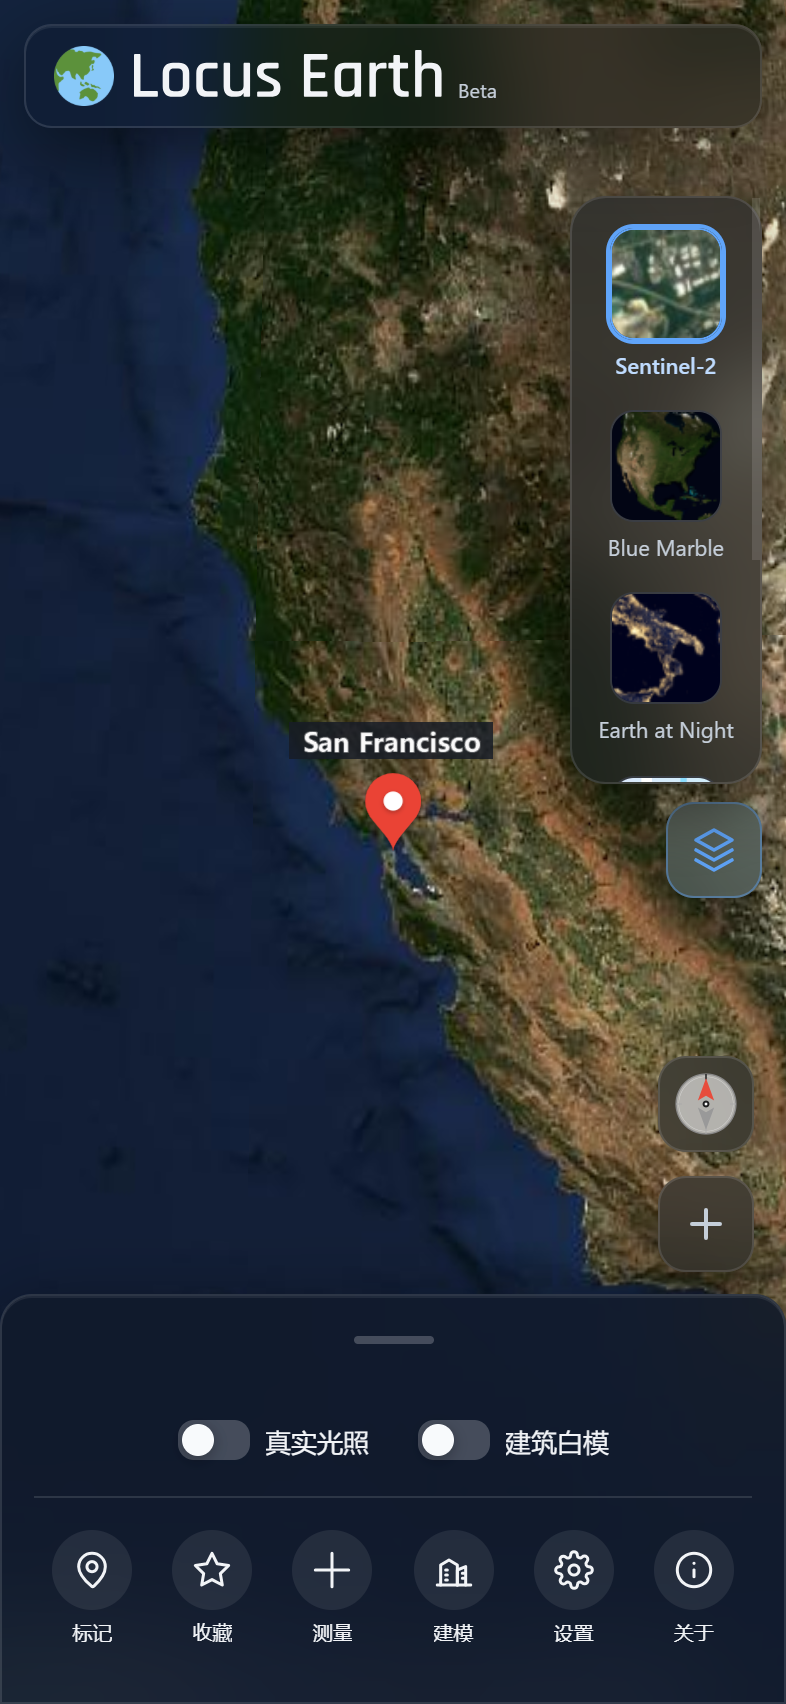
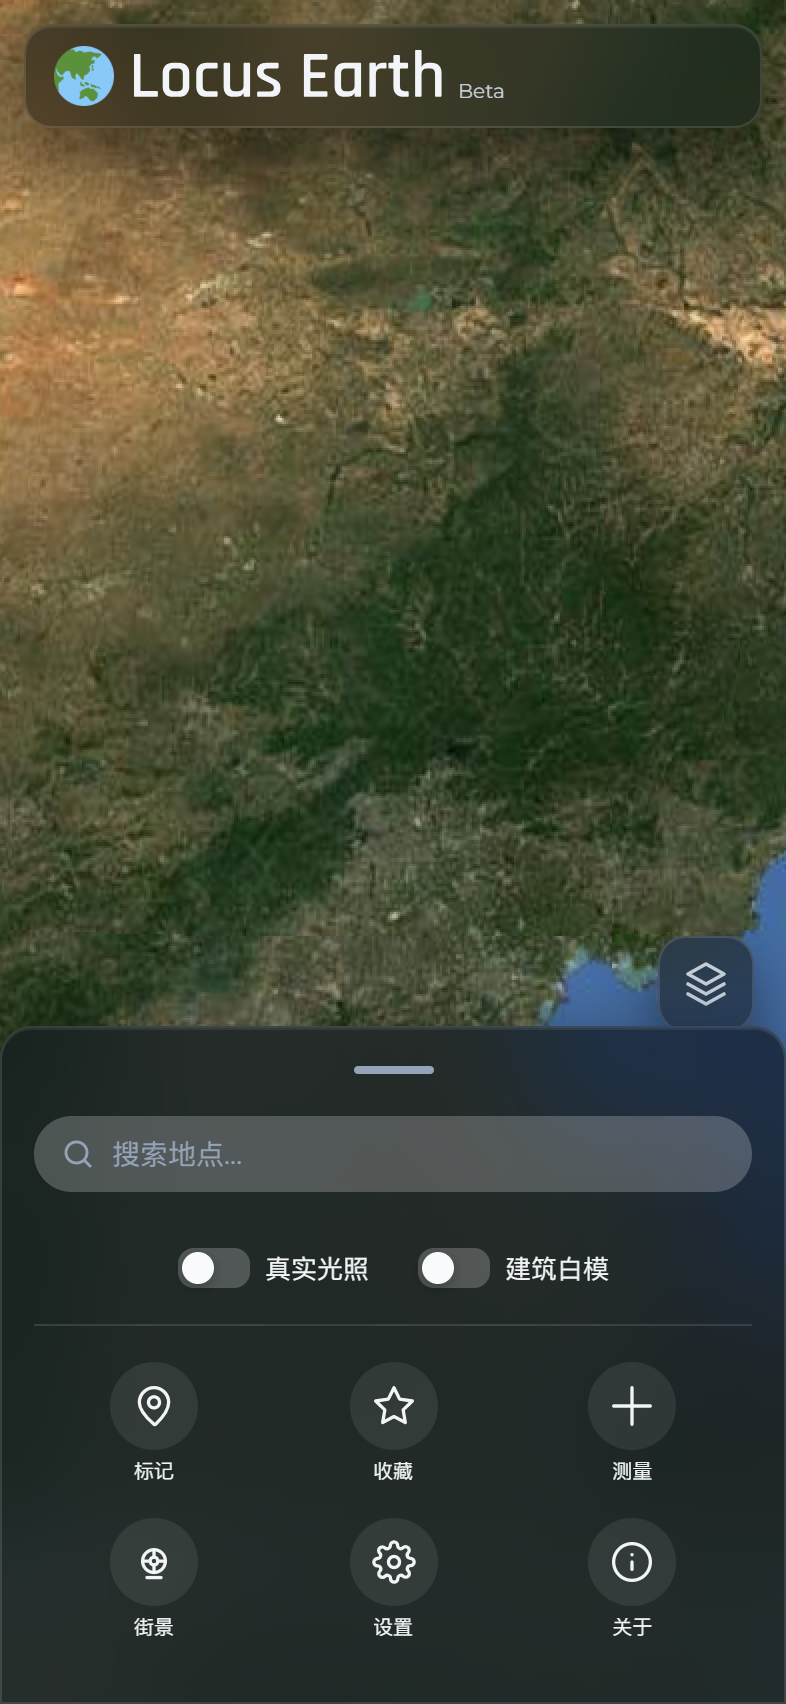
update

diff --git a/js/settings.js b/js/settings.js
@@ -40,11 +40,45 @@
     // =============================================
     function applyTheme(theme) {
         document.documentElement.setAttribute('data-theme', theme);
+        // 与 js/main.js 的 applyTheme 保持一致：让原生控件（<select> 弹层、滚动条）
+        // 跟着换色，否则深色主题下会冒出一块系统亮色。
+        document.documentElement.style.colorScheme = theme === 'dark' ? 'dark' : 'light';
         const metaTheme = document.querySelector('meta[name="theme-color"]');
         if (metaTheme) {
             const colors = { light: '#ffffff', dark: '#1a1a1a' };
             metaTheme.content = colors[theme] || '#ffffff';
         }
+    }
+
+    // data-theme 一改，整页都要重算样式再重绘。设置页的底是一层
+    // `background-attachment: fixed` 的渐变（见 css/settings.css），外加若干
+    // backdrop-filter 玻璃面板，手机上这一帧的「呈现延迟」能到 90ms 以上 ——
+    // 这正是 Cloudflare 报的 #colorMode INP 264ms 的来源，而真正的事件处理只有 6ms。
+    // 所以交互路径上不再直接 applyTheme：先把「便宜」的反馈画出去（菜单收起、
+    // 触发按钮文字更新），整页重绘推到下一次绘制之后。差一帧，用户看不出来。
+    let pendingTheme = null;
+    let themeApplyScheduled = false;
+
+    function applyThemeDeferred(theme) {
+        pendingTheme = theme;
+        if (themeApplyScheduled) return;
+        if (!window.requestAnimationFrame) {
+            pendingTheme = null;
+            applyTheme(theme);
+            return;
+        }
+        themeApplyScheduled = true;
+        // rAF 回调仍在下一帧绘制之前，再套一个 setTimeout 才是绘制之后
+        requestAnimationFrame(function() {
+            setTimeout(function() {
+                themeApplyScheduled = false;
+                const next = pendingTheme;
+                pendingTheme = null;
+                // 同一帧里来了多次请求（点击的 change + saveSettings 触发的
+                // storage 回声）时，只按最后一次应用一次
+                if (next) applyTheme(next);
+            }, 0);
+        });
     }
 
     function getSystemTheme() {
@@ -90,11 +124,11 @@
         if (settings.followSystem) {
             const systemTheme = getSystemTheme();
             settings.colorMode = systemTheme; 
-            applyTheme(systemTheme);
+            applyThemeDeferred(systemTheme);
             colorModeSelect.value = systemTheme;
         } else {
             const manualTheme = colorModeSelect.value;
-            applyTheme(manualTheme);
+            applyThemeDeferred(manualTheme);
             settings.colorMode = manualTheme;
         }
         colorModeSelect.disabled = settings.followSystem;
@@ -108,7 +142,7 @@
         if (!settings.followSystem) {
             const theme = this.value;
             settings.colorMode = theme;
-            applyTheme(theme);
+            applyThemeDeferred(theme);
             saveSettings(settings);
         }
         syncColorSelectUI();
@@ -216,7 +250,7 @@
         if (settings.followSystem !== false) {
             const theme = e.matches ? 'dark' : 'light';
             settings.colorMode = theme;
-            applyTheme(theme);
+            applyThemeDeferred(theme);
             colorModeSelect.value = theme;
             syncColorSelectUI();
             saveSettings(settings);
@@ -232,7 +266,10 @@
                 colorModeSelect.disabled = settings.followSystem !== false;
                 const theme = settings.followSystem !== false ? getSystemTheme() : (settings.colorMode || 'light');
                 colorModeSelect.value = theme;
-                applyTheme(theme);
+                // 注意：saveSettings 会同步派发一次 StorageEvent，本页这个监听器
+                // 就跟着在点击处理函数里跑起来了 —— 这里再同步 applyTheme 等于
+                // 把整页重绘又塞回交互帧里。走延迟通道，和 change 那一路合并成一次。
+                applyThemeDeferred(theme);
             } catch {}
         }
     });

diff --git a/index.html b/index.html
@@ -34,7 +34,25 @@
 
     <link rel="shortcut icon" href="favicon.ico" />
     
-    <link rel="stylesheet" href="https://unpkg.com/cesium@1.118.2/Build/Cesium/Widgets/widgets.css" />
+    <!-- Cesium 控件样式：**不能参与首屏渲染阻塞**。
+         它是一张外链样式表（unpkg），而渲染阻塞样式表只要回包慢，浏览器就一帧都不画 ——
+         连加载遮罩的黑底和 logo 都出不来。Cloudflare Web Analytics 报的 LCP 元素正是
+         遮罩里的 logo（P75 2054ms / P99 6217ms、元素渲染延迟占 32%），根因就是这一行：
+         settings.html 没有这张表，它的 LCP 是 100% 良好，这个对比很干净。
+         现在改成 preload → 下载完再挂成 stylesheet：HTML 一到就能画遮罩和 logo，
+         样式到了再应用。代价是 Cesium 控件会晚一点拿到样式，所以留了个
+         `__cesiumCssReady` 把手，js/main.js 建 Viewer 之前会先等它（控件没样式会散架，
+         样式晚到还会带出一波 CLS）；3s 兜底 —— 真拿不到也照常启动，
+         没有控件样式的地球也比一整块黑屏强。 -->
+    <script>
+        window.__cesiumCssReady = new Promise(function (resolve) {
+            window.__cesiumCssDone = resolve;
+            setTimeout(resolve, 3000);
+        });
+    </script>
+    <link rel="preload" as="style" href="https://unpkg.com/cesium@1.118.2/Build/Cesium/Widgets/widgets.css"
+          onload="this.onload=null;this.rel='stylesheet';window.__cesiumCssDone()"
+          onerror="window.__cesiumCssDone()" />
 
     <link rel="manifest" href="manifest.json">
     <script>
@@ -59,6 +77,14 @@
     <link rel="preconnect" href="https://unpkg.com" crossorigin>
     <link rel="preconnect" href="https://api.cesium.com" crossorigin>
     <link rel="modulepreload" href="https://unpkg.com/cesium@1.118.2/Build/Cesium/index.js" crossorigin>
+
+    <!-- 加载遮罩里的 logo 就是 LCP 元素本身（地球是 canvas，不算 LCP 候选），
+         所以它必须是首屏最优先的那张图：preload 让它和 CSS 并行开下，
+         fetchpriority="high" 把它排在 4 MB 的 Cesium 包前面 ——
+         否则这条 6 KB 的请求会被那个大包挤到后面，「资源加载延迟」就是白等的。
+         尺寸按 SVG 的 231×36 写死（CSS 再用 min(231px, 62vw) 缩放），
+         让布局在图片解码前就定好，避免遮罩里再跳一次。 -->
+    <link rel="preload" as="image" href="locus-earth-logo.svg" fetchpriority="high">
 
     <!-- Montserrat（仅拉丁字符）+ 中文沿用设备字体
          · 源：fonts.loli.net（Infvie Envoy 公益 CDN，反代 Google Fonts；
@@ -330,7 +356,7 @@
         <div style="display:flex; flex-direction:column; align-items:center; gap:10px; padding:16px;">
             <div style="display:flex; align-items:center; justify-content:center; gap:10px; max-width:100%;">
                 <img src="favicon-32x32.png" alt="" aria-hidden="true" width="32" height="32">
-                <img src="locus-earth-logo.svg" alt="Locus Earth" style="display:block; width:min(231px, 62vw); height:auto;">
+                <img src="locus-earth-logo.svg" alt="Locus Earth" width="231" height="36" fetchpriority="high" style="display:block; width:min(231px, 62vw); height:auto;">
             </div>
             <p style="display:flex; align-items:center; justify-content:center; gap:10px; flex-wrap:wrap; margin:0;">
                 <span class="loading-spinner" aria-hidden="true"></span>

diff --git a/js/main.js b/js/main.js
@@ -80,6 +80,15 @@ import { initTileCacheSwitch } from './tile-cache.js';
         });
         
         // ----- 初始化 viewer 并异步加载地形 -----
+        // Cesium 的控件样式在 index.html 里改成了非阻塞加载（见那里的说明，是为了救 LCP）。
+        // 它没到就建 Viewer 的话，credit / 缩放控件会先按无样式渲染成一堆散块，
+        // 样式到了再排一次 —— 白闪 + 一波 CLS。这里等它，最多 3s 就放行。
+        if (window.__cesiumCssReady) {
+            try {
+                await window.__cesiumCssReady;
+            } catch (e) {}
+        }
+
         const viewer = initViewer('cesiumContainer', new EllipsoidTerrainProvider());
         const loadingOverlay = document.getElementById('loadingOverlay');
 

diff --git a/docs/dev-notes.md b/docs/dev-notes.md
@@ -50,6 +50,11 @@ export * from 'https://unpkg.com/cesium@1.118.2/Build/Cesium/index.js';
 **新代码不要写裸标识符 `'cesium'`。** `index.html` / `settings.html` 里那段 importmap 还留着，
 但只有唯一用途：发版后的过渡期里，Cache Storage 可能还是上一版模块（它们写着裸标识符），留着不至于又断一次。
 
+护栏（本机自检，`tests/` 在 .gitignore 里、不进仓库）：`node tests/no-bare-imports.test.mjs`。
+它扫 `js/` 和根目录两个页面，会先剥掉 JS / HTML 注释再匹配，所以说明文字里的示例不会被误抓；
+`js/settings.js` 里那句 `await import('cesium')` 是「兼容性诊断」故意写的探测，在脚本的白名单里 ——
+新增白名单必须写清理由。脚本自带自测，护栏本身失效会先报错而不是假通过。
+
 **升级引擎要同时改三处**（必须是同一个补丁号）：
 `js/cesium.js` 的 URL、`index.html` 的 `modulepreload`、`sw.js` 的 `CESIUM_VERSION`。
 写 `@1.118` 会被 unpkg 302 到 `1.118.2`，modulepreload 的键就对不上了，等于白下 4 MB。
@@ -98,6 +103,29 @@ MSAA 在移动端代价偏高：GPU 不支持硬件 MSAA 的设备上，Chromium
 
 冷启动的大头是 Cesium 那个约 4 MB 的 ESM 包（下载 + 解析），网页层能做的只有：
 把版本钉到补丁号（省一次 302）、`modulepreload` 提前拉、以及让导航和 endpoint 走缓存。
+
+### 线上 LCP / INP 的两个坑（2026-10-30 按 Cloudflare Web Analytics 报告修）
+
+**外链样式表会把首屏一起拖住。** `widgets.css` 原来是条普通的 `<link rel="stylesheet">`
+（unpkg，跨域）。渲染阻塞样式表只要回包慢一点，浏览器就一帧都不画 —— 连加载遮罩的黑底和 logo
+都出不来，于是 LCP 元素变成了遮罩里的 logo：P75 2054ms、P99 6217ms，「元素渲染延迟」占 32%。
+对照组很干净：settings.html 不引这张表，LCP 100% 落在良好。
+现在改成 `rel="preload" as="style"` + `onload` 再挂成 stylesheet，并留了
+`window.__cesiumCssReady` 让 `js/main.js` 建 Viewer 之前先等它（3s 兜底；控件没样式会散架，
+样式晚到还会带出一波 CLS）。**不要改回阻塞式 `<link rel="stylesheet">`**，也不要「顺手」给它
+加 `crossorigin` —— 请求模式跟 preload 对不上，会下两遍。
+
+**整页换主题不能塞进交互帧里。** 设置页的底是 `background-attachment: fixed` 的渐变，
+外加一层层 backdrop-filter 玻璃面板，`data-theme` 一改就要整页重算样式再重绘，手机上这一帧的
+呈现延迟能到 90ms 以上（报告里 `#colorMode` 的 INP 264ms，事件处理本身只有 6ms）。
+`js/settings.js` 现在统一走 `applyThemeDeferred()`：先画便宜的反馈（菜单收起、触发按钮文字更新），
+把 `applyTheme` 推到 `rAF` 之后的 `setTimeout` 里，差一帧用户看不出来。
+注意 `saveSettings()` 会**同步**派发 StorageEvent，本页的 storage 监听器就在同一个调用栈里跑，
+那里也必须走延迟通道，否则等于没改。
+
+TTFB 那 1057ms（占 LCP 46%）不在仓库能改的范围内：pages.dev 的 HTML 不走 CDN 长时间缓存，
+境外/跨境访问的第一跳就是这个量级。重复访问由 SW 的缓存优先兜掉了（TTFB ≈ 0），
+首访只能靠把阻塞资源清干净来减少「TTFB 之后」的那一段。
 
 ---
 

diff --git a/docs/dev-notes-en.md b/docs/dev-notes-en.md
@@ -60,6 +60,12 @@ previous build's modules (which contain bare specifiers), so keeping it avoids a
 gets 302-redirected to `1.118.2` by unpkg, which breaks the modulepreload key — you then download 4 MB
 for nothing.
 
+Guard (local-only; `tests/` is in .gitignore and never committed): `node tests/no-bare-imports.test.mjs`.
+It scans `js/` plus the two root pages after stripping JS and HTML comments, so examples inside prose are
+not flagged. The `await import('cesium')` in `js/settings.js` is the "compatibility check" probe and sits
+in the script's allowlist — any new allowlist entry needs a written reason. The script self-tests its own
+matcher first, so a broken guard fails loudly instead of passing silently.
+
 ---
 
 ## Caching & offline
@@ -113,6 +119,32 @@ depends on it. **Do not switch back to the default MSAA.**
 Cold-start cost is dominated by the ~4 MB Cesium ESM bundle (download + parse). All the web layer can do
 is: pin the patch version (saves a 302), preload with `modulepreload`, and let navigation and the
 endpoint be served from cache.
+
+### Two LCP / INP traps (fixed 2026-10-30, from a Cloudflare Web Analytics report)
+
+**A third-party stylesheet can hold the entire first paint.** `widgets.css` used to be a plain
+`<link rel="stylesheet">` (unpkg, cross-origin). A render-blocking stylesheet that is even slightly slow
+means the browser paints nothing at all — not the black overlay, not its logo — so the LCP element became
+the overlay logo: P75 2054 ms, P99 6217 ms, with "element render delay" at 32%. The control group is
+clean: settings.html does not load it and its LCP is 100% good. It is now `rel="preload" as="style"`
+swapped to `stylesheet` on load, with `window.__cesiumCssReady` gating `initViewer()` in `js/main.js`
+(3 s fallback; widgets without their stylesheet fall apart, and a late stylesheet adds a round of CLS).
+**Do not put the blocking `<link rel="stylesheet">` back**, and do not "helpfully" add `crossorigin` —
+the request mode then no longer matches the preload and it downloads twice.
+
+**Never repaint the whole page inside an interaction frame.** The settings page sits on a
+`background-attachment: fixed` gradient with several backdrop-filter glass panels on top, so flipping
+`data-theme` forces a full style recalc and repaint — 90 ms+ of presentation delay on mobile (the reported
+`#colorMode` INP is 264 ms while event processing is only 6 ms). `js/settings.js` now goes through
+`applyThemeDeferred()`: paint the cheap feedback first (menu closes, trigger label updates) and push
+`applyTheme` into a `setTimeout` scheduled after `requestAnimationFrame`. Note that `saveSettings()`
+dispatches a StorageEvent **synchronously**, so this page's storage listener runs inside the same task —
+it has to use the deferred path too, or the fix does nothing.
+
+The 1057 ms TTFB (46% of LCP) is not something this repo can fix: HTML on pages.dev is not CDN-cached for
+long, so the first hop from outside the edge region costs about that much. Repeat visits are covered by
+the service worker's cache-first navigation (TTFB ≈ 0); for first visits the only lever is keeping
+render-blocking resources out of the way so the stretch after TTFB stays small.
 
 ---
 

diff --git a/README.md b/README.md
@@ -13,15 +13,17 @@
 
 ---
 
-<div align="left">
-<a href="https://github.com/ZhuNemo/locus-earth/actions/workflows/android.yml"><img src="https://img.shields.io/github/actions/workflow/status/ZhuNemo/locus-earth/android.yml?label=Android%20APK" alt="Android APK build"></a>
-<a href="https://github.com/ZhuNemo/locus-earth/releases"><img src="https://img.shields.io/github/v/tag/ZhuNemo/locus-earth?label=APK" alt="APK version"></a>
-<img src="https://img.shields.io/badge/CesiumJS-1.118.2-3ba7d9" alt="CesiumJS 1.118.2">
-<img src="https://img.shields.io/badge/requires-WebGL%202-blueviolet" alt="Requires WebGL 2">
-<a href="https://github.com/ZhuNemo/locus-earth/blob/main/LICENSE"><img src="https://img.shields.io/badge/License-MIT-yellow" alt="License: MIT"></a>
-</div>
-
-[![XERJ Corpus Hub contributor](https://hub.xerj.org/contributors/ZhuNemo/badge.svg)](https://hub.xerj.org/contributors/ZhuNemo)
+<p align="center">
+  <a href="https://github.com/ZhuNemo/locus-earth/actions/workflows/android.yml"><img src="https://img.shields.io/github/actions/workflow/status/ZhuNemo/locus-earth/android.yml?label=Android%20APK" alt="Android APK build"></a>
+  <a href="https://github.com/ZhuNemo/locus-earth/releases"><img src="https://img.shields.io/github/v/tag/ZhuNemo/locus-earth?label=APK" alt="APK version"></a>
+  <br>
+  <img src="https://img.shields.io/badge/CesiumJS-1.118.2-3ba7d9" alt="CesiumJS 1.118.2">
+  <img src="https://img.shields.io/badge/requires-WebGL%202-blueviolet" alt="Requires WebGL 2">
+  <br>
+  <a href="https://github.com/ZhuNemo/locus-earth/blob/main/LICENSE"><img src="https://img.shields.io/badge/License-MIT-yellow" alt="License: MIT"></a>
+  <br>
+  <a href="https://hub.xerj.org/contributors/ZhuNemo"><img src="https://hub.xerj.org/contributors/ZhuNemo/badge.svg" alt="XERJ Corpus Hub contributor"></a>
+</p>
 
 ---
 

diff --git a/README-EN.md b/README-EN.md
@@ -13,13 +13,17 @@
 
 ---
 
-<div align="left">
-<a href="https://github.com/ZhuNemo/locus-earth/actions/workflows/android.yml"><img src="https://img.shields.io/github/actions/workflow/status/ZhuNemo/locus-earth/android.yml?label=Android%20APK" alt="Android APK build"></a>
-<a href="https://github.com/ZhuNemo/locus-earth/releases"><img src="https://img.shields.io/github/v/tag/ZhuNemo/locus-earth?label=APK" alt="APK version"></a>
-<img src="https://img.shields.io/badge/CesiumJS-1.118.2-3ba7d9" alt="CesiumJS 1.118.2">
-<img src="https://img.shields.io/badge/requires-WebGL%202-blueviolet" alt="Requires WebGL 2">
-<a href="https://github.com/ZhuNemo/locus-earth/blob/main/LICENSE"><img src="https://img.shields.io/badge/License-MIT-yellow" alt="License: MIT"></a>
-</div>
+<p align="center">
+  <a href="https://github.com/ZhuNemo/locus-earth/actions/workflows/android.yml"><img src="https://img.shields.io/github/actions/workflow/status/ZhuNemo/locus-earth/android.yml?label=Android%20APK" alt="Android APK build"></a>
+  <a href="https://github.com/ZhuNemo/locus-earth/releases"><img src="https://img.shields.io/github/v/tag/ZhuNemo/locus-earth?label=APK" alt="APK version"></a>
+  <br>
+  <img src="https://img.shields.io/badge/CesiumJS-1.118.2-3ba7d9" alt="CesiumJS 1.118.2">
+  <img src="https://img.shields.io/badge/requires-WebGL%202-blueviolet" alt="Requires WebGL 2">
+  <br>
+  <a href="https://github.com/ZhuNemo/locus-earth/blob/main/LICENSE"><img src="https://img.shields.io/badge/License-MIT-yellow" alt="License: MIT"></a>
+  <br>
+  <a href="https://hub.xerj.org/contributors/ZhuNemo"><img src="https://hub.xerj.org/contributors/ZhuNemo/badge.svg" alt="XERJ Corpus Hub contributor"></a>
+</p>
 
 ---
 
